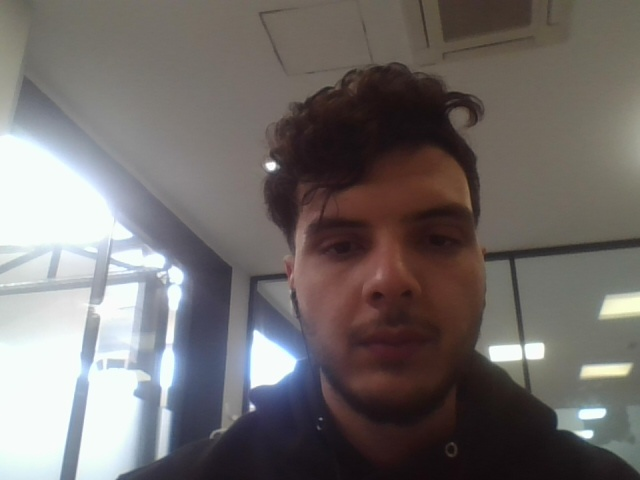
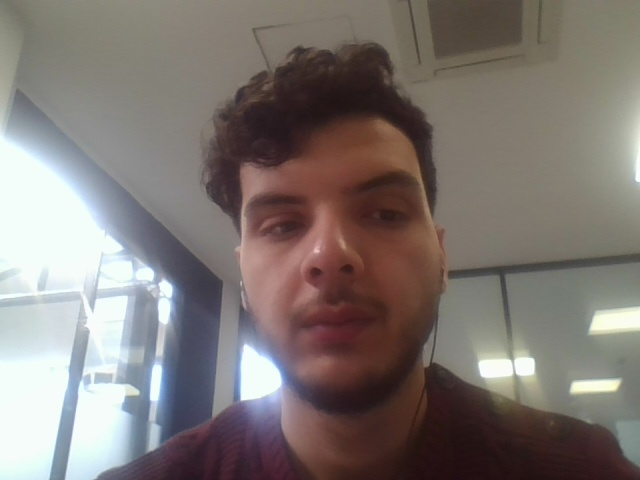
fix: add warning in UI when no panel components are detected

diff --git a/frontend/app.py b/frontend/app.py
@@ -195,34 +195,39 @@ if scan_button:
 
                 if response.status_code == 200:
                     results = response.json()
-                    st.success("✅ Validation Complete!")
-
-                    # Display results header
-                    st.markdown("---")
-                    st.subheader(
-                        f"📋 Validation Results for {results.get('row_id', 'Row')}")
-
-                    # Count pass/fail
                     validation_results = results.get('validation_results', [])
-                    pass_count = sum(
-                        1 for r in validation_results if r.get('status') == 'PASS')
-                    fail_count = len(validation_results) - pass_count
+                    
+                    # NEW CHECK: Did YOLO actually find anything?
+                    if len(validation_results) == 0:
+                        st.warning("⚠ No panel components detected! Please ensure the camera is pointed clearly at the switches and stickers, then try capturing again.")
+                    else:
+                        st.success("✅ Validation Complete!")
 
-                    # Summary metrics
-                    col1, col2, col3 = st.columns(3)
-                    with col1:
-                        st.metric("Total Slots", len(validation_results))
-                    with col2:
-                        st.metric("✅ Passed", pass_count, delta=None)
-                    with col3:
-                        st.metric("❌ Failed", fail_count, delta=None)
+                        # Display results header
+                        st.markdown("---")
+                        st.subheader(f"📋 Validation Results for {results.get('row_id', 'Row')}")
 
-                    st.markdown("---")
+                        # Count pass/fail
+                        pass_count = sum(1 for r in validation_results if r.get('status') == 'PASS')
+                        fail_count = len(validation_results) - pass_count
 
-                    # Display individual slot cards
-                    st.subheader("Slot Details")
-                    for slot_result in validation_results:
-                        display_result_card(slot_result)
+                        # Summary metrics
+                        col1, col2, col3 = st.columns(3)
+                        with col1:
+                            st.metric("Total Slots", len(validation_results))
+                        with col2:
+                            st.metric("✅ Passed", pass_count, delta=None)
+                        with col3:
+                            st.metric("❌ Failed", fail_count, delta=None)
+
+                        st.markdown("---")
+
+                        # Display individual slot cards
+                        st.subheader("Slot Details")
+                        for slot_result in validation_results:
+                            display_result_card(slot_result)
+                
+                
                 else:
                     st.error(f"❌ API Error: {response.status_code}")
                     st.write(response.text)
